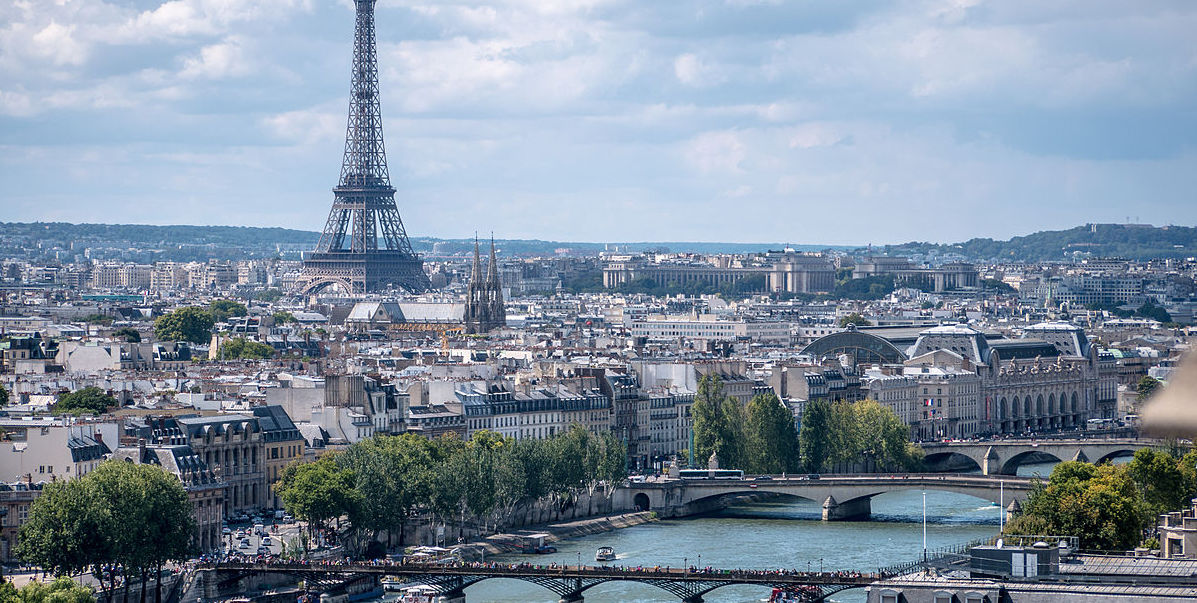
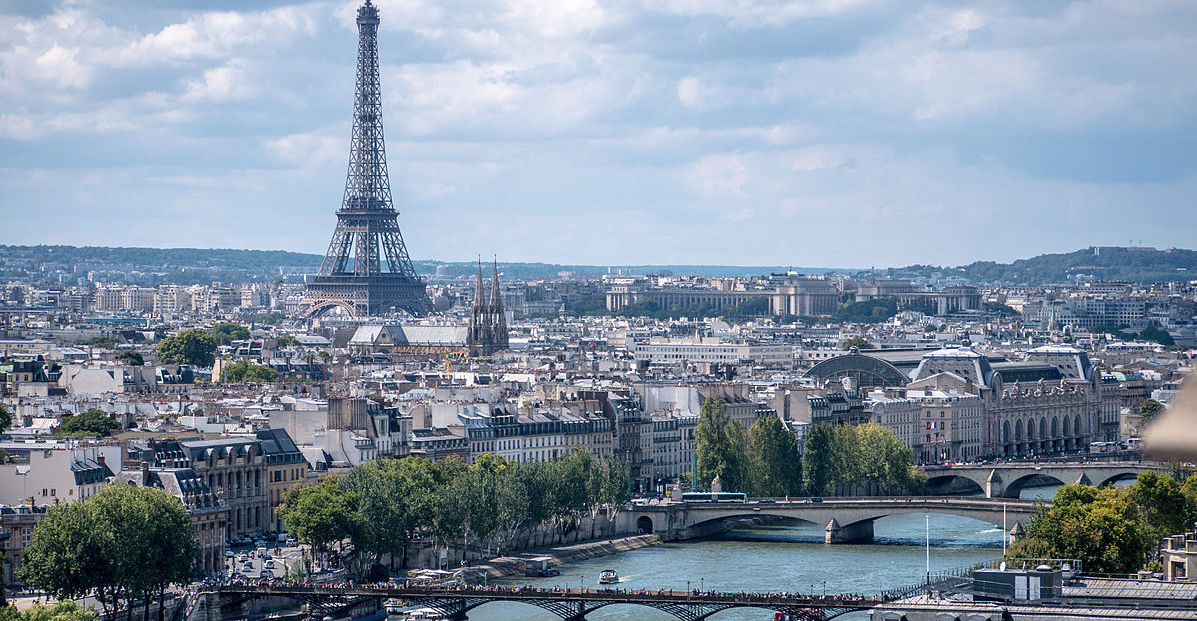
canvas fixed and scaled

diff --git a/paris/paris.js b/paris/paris.js
@@ -1,21 +1,21 @@
-let img;
+
 let canvas2;
 
 function preload() {
-img = loadImage('PARIS.jpg');
+
 eiffel = loadImage ('eiffel/eiffel.jpg')
 louvre = loadImage ('Louvre/louvre.jpg')
   
 }
 
 function setup() {
-  createCanvas(windowWidth, windowHeight);
+  createCanvas(1455, 995 );
 
-  // image(img, 0, 0, img.width *1.3, img.height *1.3);
+  let scale = 0.9/ 1
   imageMode(CENTER)
 
-  image (eiffel,480,250,eiffel.width/2,eiffel.height/2)
-  image (louvre, 1004,555, louvre.width/2.3, louvre.height/2.4)
+  image (eiffel,450,350,eiffel.width/2 * scale ,eiffel.height/2 * scale)
+  image (louvre, 1004,555, louvre.width/2.3 * scale, louvre.height/2.4 * scale)
   imageMode(CENTER)
 
 

diff --git a/paris/paris.css b/paris/paris.css
@@ -3,7 +3,7 @@ body {
   background-image: url('PARIS.jpg');
   background-repeat: no-repeat;
   background-attachment: absolute;
-  background-size: 4/10;
+  background-size: auto;
   background-position: center;
 
 }
@@ -30,8 +30,8 @@ body {
   padding: 12px 16px;
   cursor: pointer; 
   position: absolute;
-  left: 350px;
-  top: 70px;
+  left: 330px;
+  top: 170px;
 }
 
 .BackButton {

diff --git a/sketch.js b/sketch.js
@@ -37,7 +37,7 @@ function setup() {
 
 function draw() {
 
-  scale (0.8)
+  scale (0.8 / 1)
   textSize(80);
   textFont(myFont)
   textAlign(CENTER)
